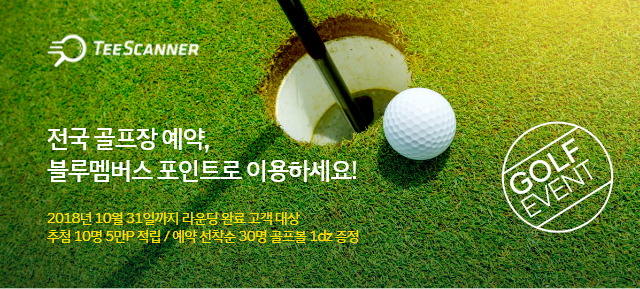
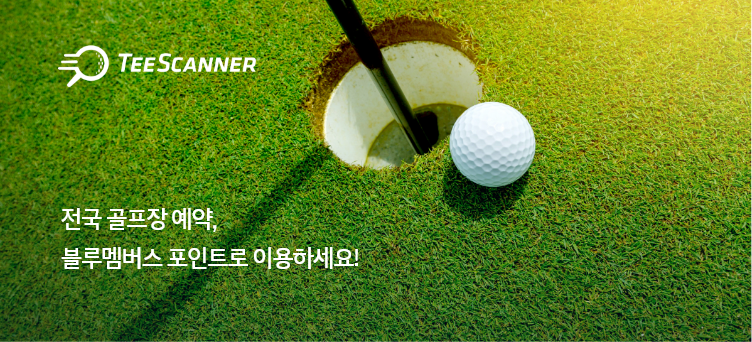
2018-09-18

diff --git a/banner/banner_details4.html b/banner/banner_details4.html
@@ -33,7 +33,7 @@
             <p class="title">티스캐너 혜택 소개</p>
         </div>
         <div class="section" style="overflow: hidden;">
-            <img style="width:100%;" src="image/event04-2.png">
+            <img style="width:100%;" src="image/event04-2_old.png">
             <!--<img style="width: 100%;display: block;" src="image/event04-4.png" />-->
             <!--<img @click="bannerclick" style="width: 100%;display: block;" src="image/event04-3.png" />-->
             <!--<img style="width: 100%;display: block;" src="image/event04-5.png" />-->
